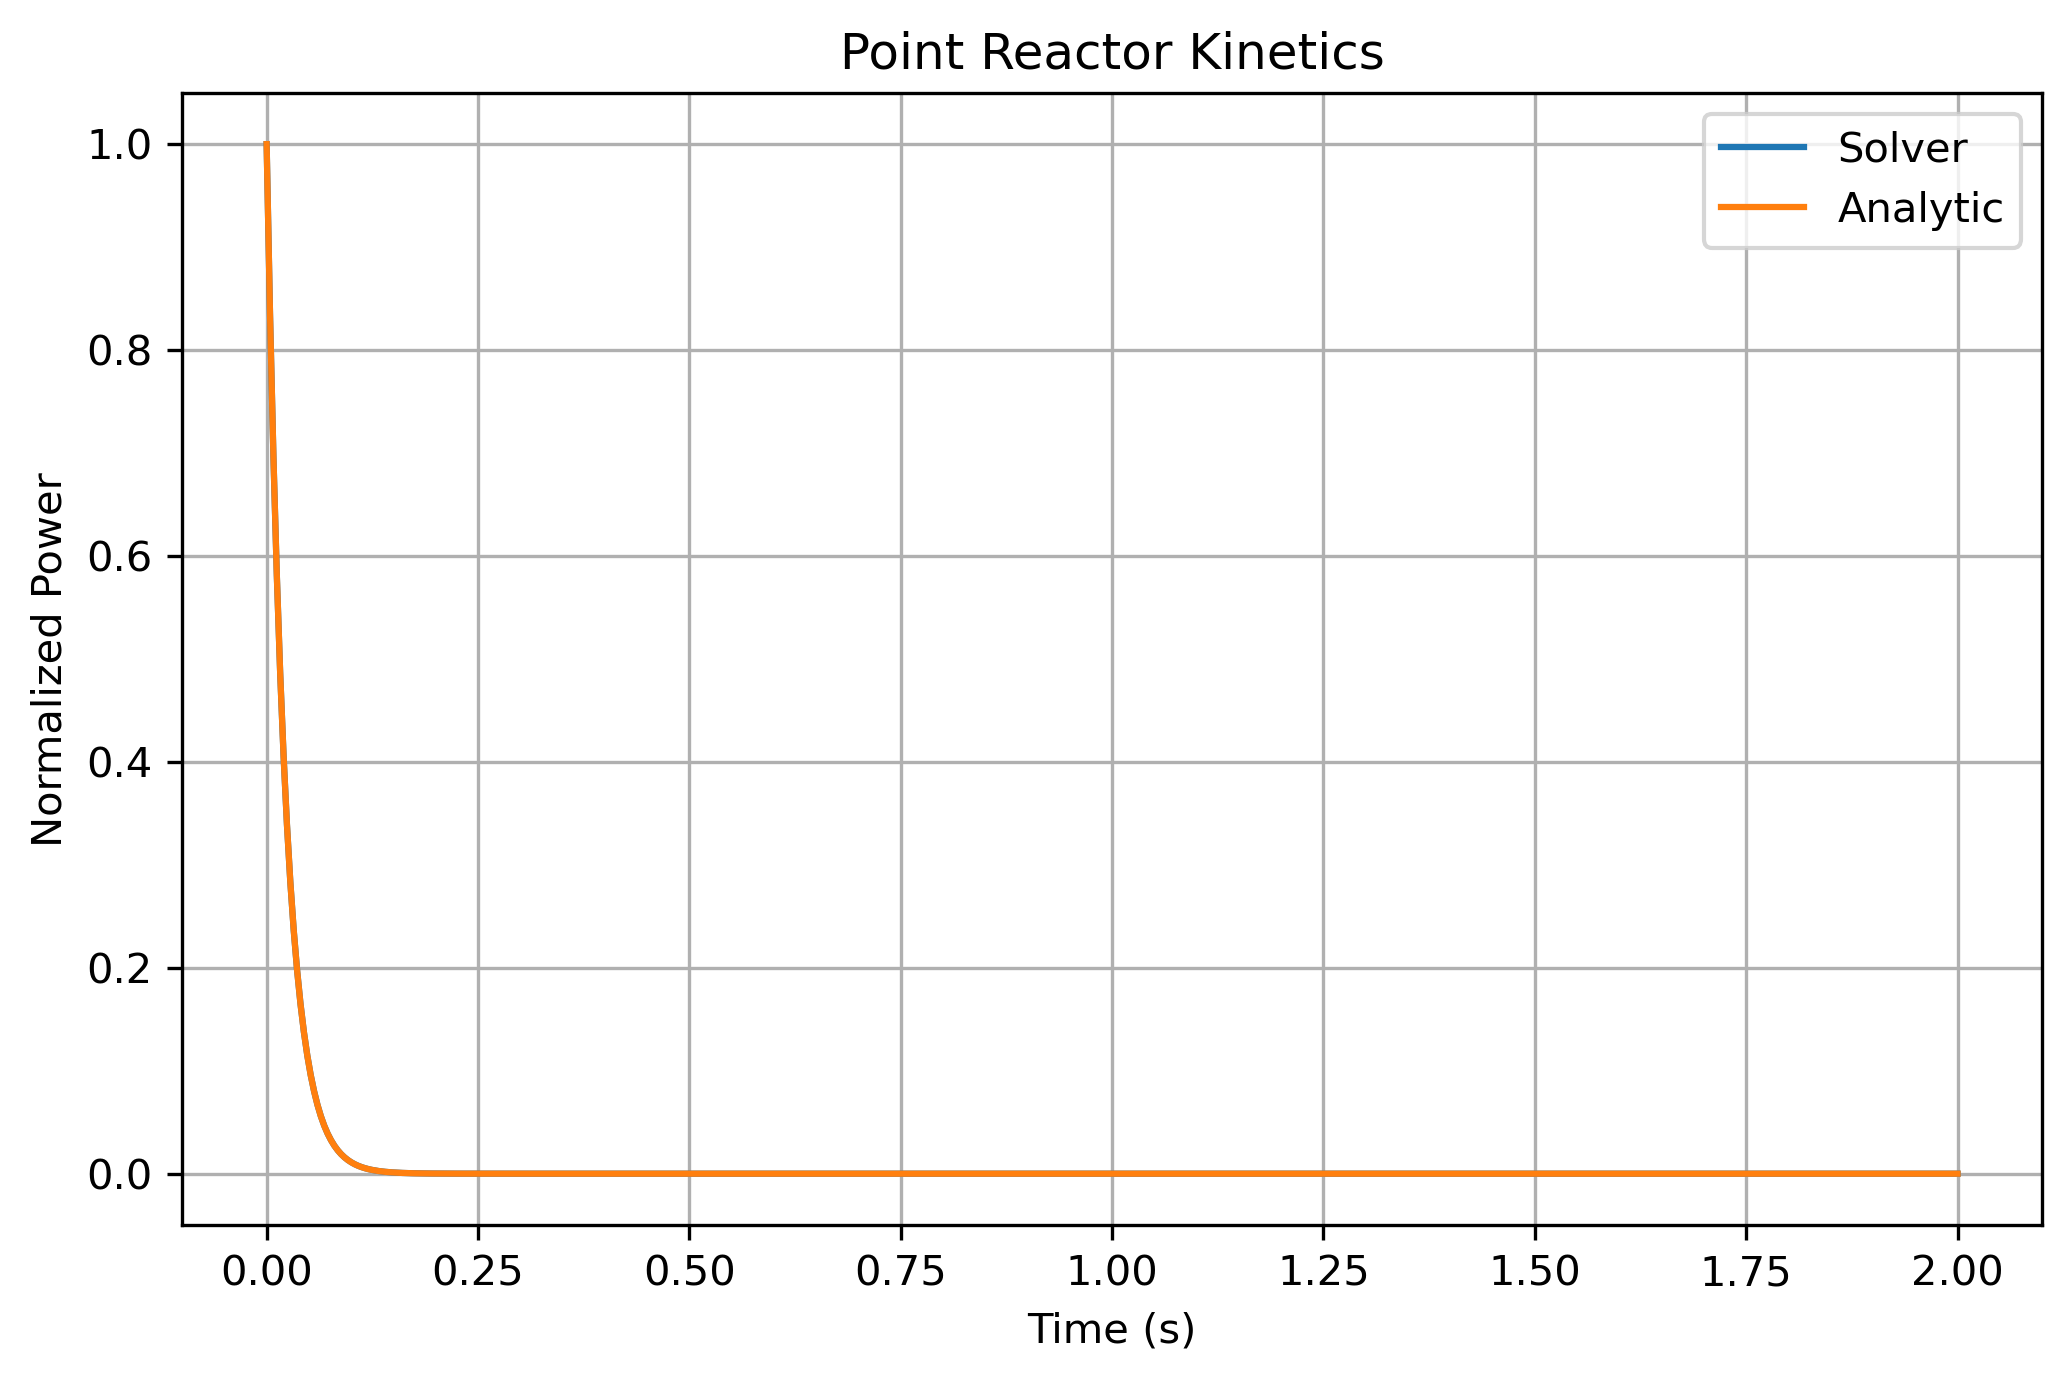
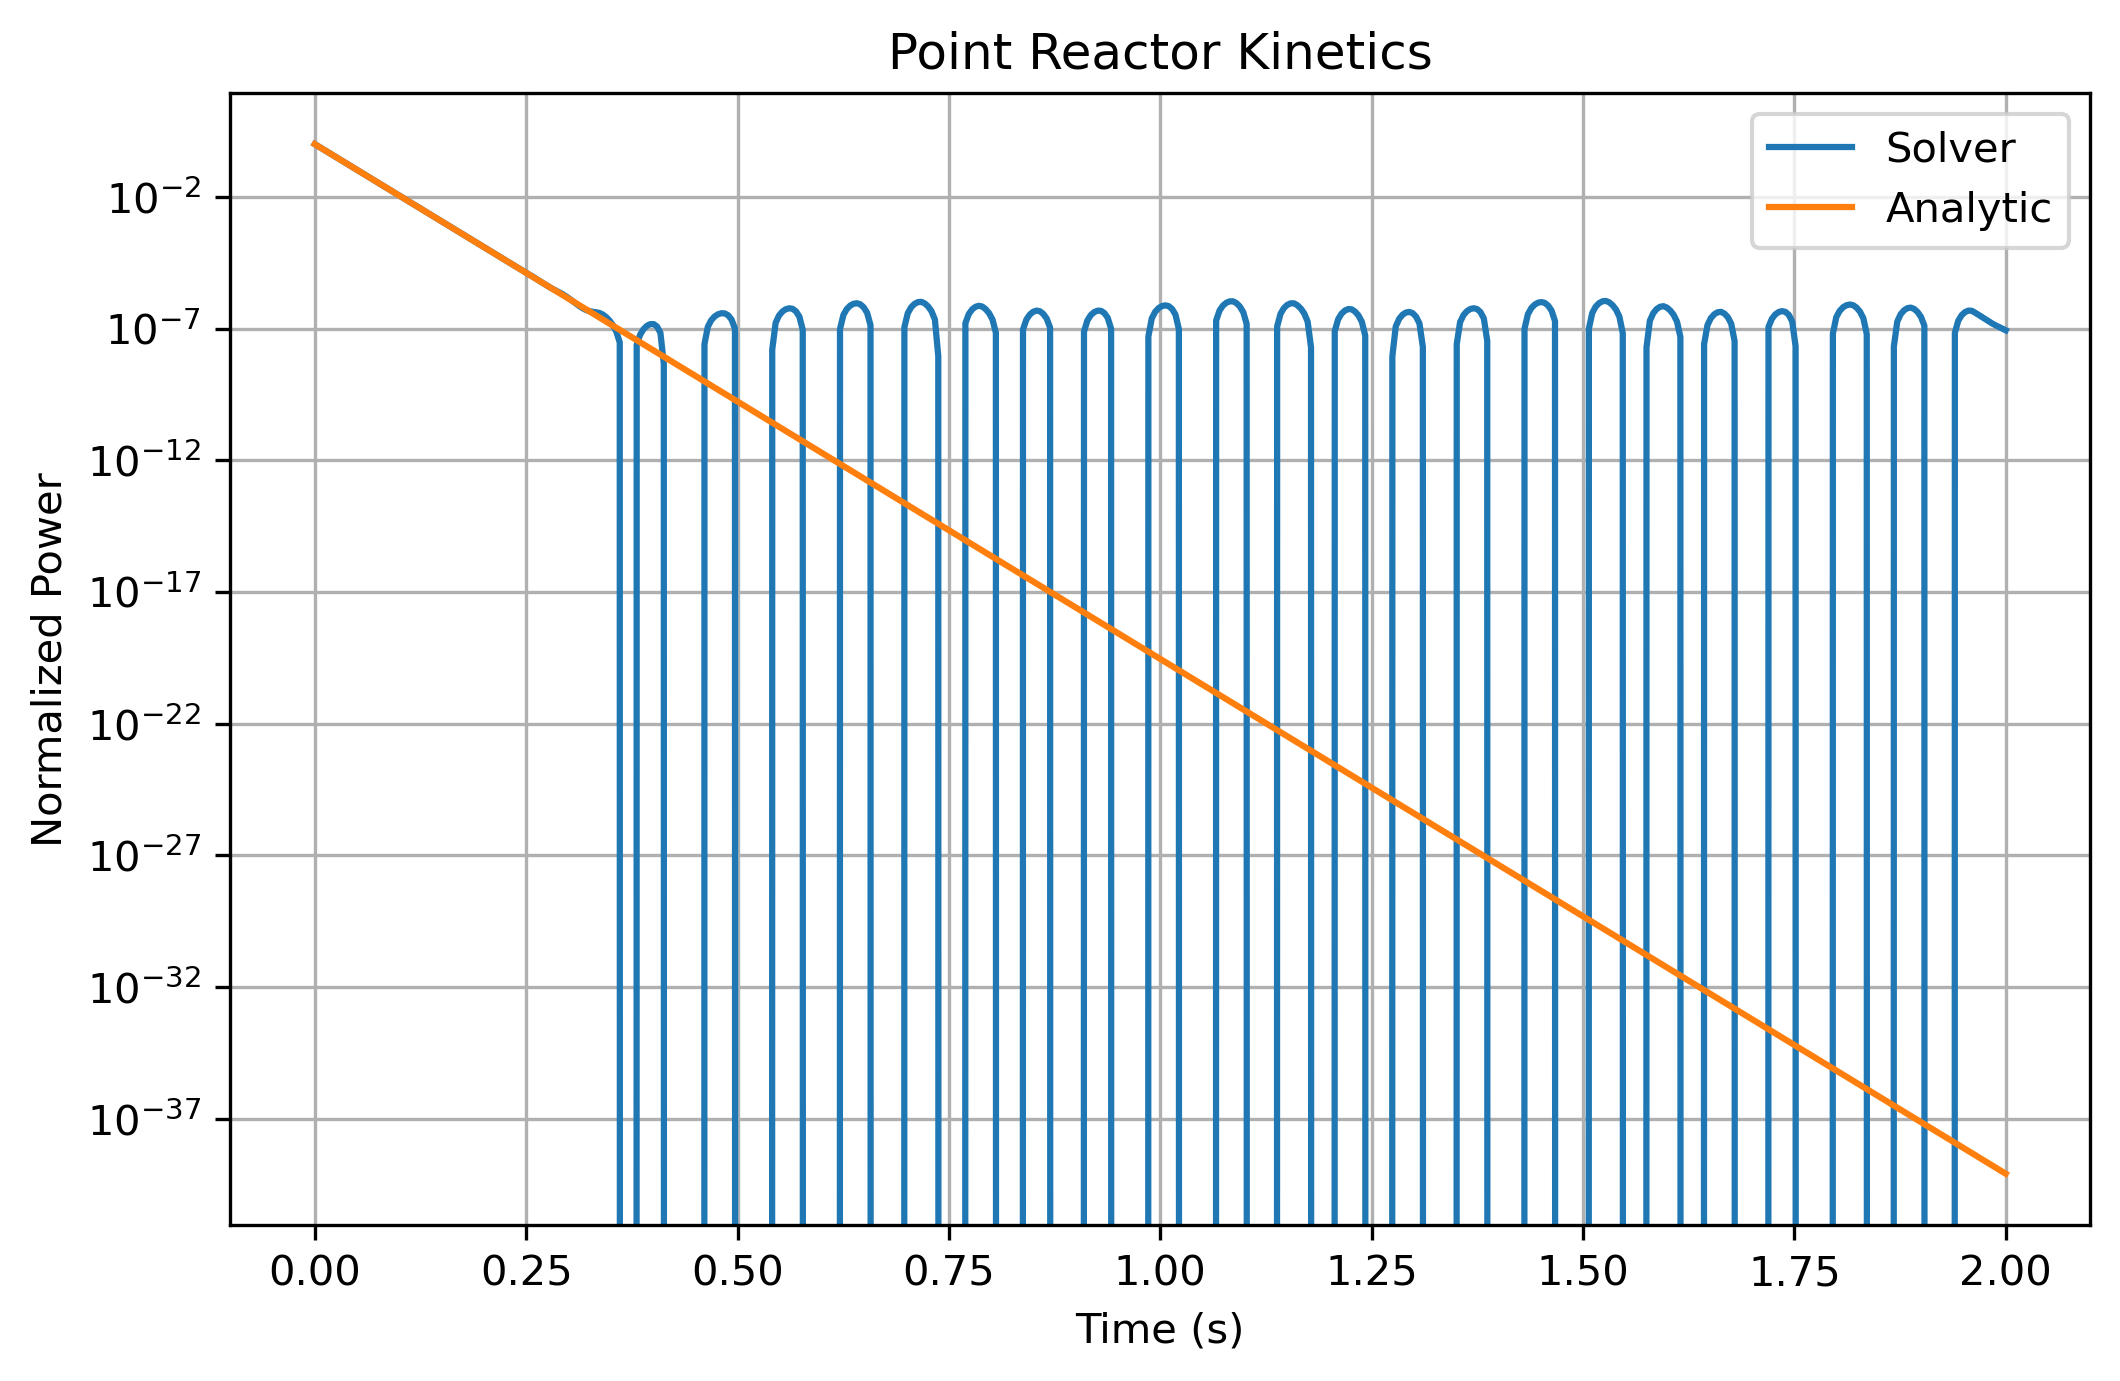
Add files via upload

diff --git a/README.md b/README.md
@@ -2,19 +2,19 @@
 
 ## Objective
 
-This project implements a simplified point reactor kinetics model to study the effect of reactivity changes on reactor power.
+This project implements a simplified reactor point kinetics model to investigate the effect of reactivity on reactor power evolution.
 
-The objective is to understand the dynamic response of a nuclear reactor under subcritical, critical, and supercritical conditions using numerical methods in Python.
+The model solves the governing differential equation numerically and validates the results against the analytical solution.
 
 ---
 
 ## Physical Background
 
-Point kinetics is one of the fundamental models used in reactor physics to describe the time-dependent behavior of neutron population and reactor power.
+Reactor kinetics describes the time-dependent behavior of neutron population and reactor power.
 
-In this simplified model, delayed neutrons are represented through the effective delayed neutron fraction, and the reactor power evolution is governed by a first-order differential equation.
+In this simplified model, reactor power is represented using a single point variable and the dynamics are governed by the balance between reactivity and delayed neutron effects.
 
-The model allows investigation of how different reactivity insertions affect reactor behavior.
+The simulation explores how different reactivity insertions influence reactor behavior under subcritical and supercritical conditions.
 
 ---
 
@@ -26,7 +26,7 @@ dP/dt = ((ρ - β)/Λ) P
 
 where:
 
-- P = reactor power
+- P = normalized reactor power
 - ρ = reactivity
 - β = effective delayed neutron fraction
 - Λ = neutron generation time
@@ -39,24 +39,29 @@ where:
 |------------|------------|
 | β | 0.0065 |
 | Λ | 1 × 10⁻⁴ s |
-| Initial Power | 1 (normalized) |
+| Initial Power | 1.0 |
 
-The simulation evaluates several reactivity conditions:
+The model evaluates several reactivity values:
 
-| Case | Reactivity (ρ) |
+| Case | Reactivity |
 |--------|--------|
 | Subcritical | -0.002 |
 | Critical-like | 0.000 |
-| Slightly Supercritical | 0.002 |
+| Near Critical | 0.002 |
 | Higher Reactivity | 0.004 |
+| Supercritical | 0.008 |
 
 ---
 
 ## Methodology
 
-The governing differential equation was solved numerically using SciPy's `solve_ivp()` function.
+The governing ordinary differential equation was solved numerically using SciPy's `solve_ivp()` solver.
 
-The reactor response was simulated for different reactivity values and compared against the analytical solution of the governing equation.
+To verify the implementation, the numerical solution was compared with the analytical solution:
+
+P(t) = P₀ exp[((ρ - β)/Λ)t]
+
+The comparison allows direct validation of the numerical model.
 
 ---
 
@@ -73,39 +78,42 @@ The reactor response was simulated for different reactivity values and compared 
 
 ### Power Evolution for Different Reactivities
 
-![Reactor Kinetics](reactor_kinetics_reactivities.png)
+![Reactor Kinetics](reactor_kinetics.png)
 
-The simulations show the expected reactor behavior:
+The simulations show the expected reactor response:
 
-- Negative reactivity causes power reduction.
-- Zero reactivity maintains constant power.
-- Positive reactivity produces power growth.
-- Larger reactivity insertions result in faster power increases.
+- Negative reactivity leads to power reduction.
+- Reactivity values approaching β produce slower decay.
+- Positive reactivity above β results in power growth.
+- The reactor response is highly sensitive to small reactivity changes.
 
 ---
 
 ## Model Validation
 
-![Reactor Kinetics](reactor_kinetics.png)
+### Numerical vs Analytical Solution
 
-The analytical solution of the governing equation is:
+![Validation](validation.png)
 
-P(t) = P₀ exp[((ρ - β)/Λ)t]
+The numerical solution was compared against the analytical solution of the governing equation.
 
-The numerical solution obtained with SciPy was compared with the analytical expression and showed excellent agreement.
+Excellent agreement was observed throughout the simulation interval, confirming the correctness of the numerical implementation.
 
-This comparison validates the numerical implementation.
+### Error Analysis
 
+The absolute error between numerical and analytical solutions remained extremely small throughout the simulation.
+
+The maximum observed error was on the order of machine precision, demonstrating the accuracy of the solver for this problem.
 
 ---
 
 ## Engineering Interpretation
 
-Reactivity is one of the most important parameters in reactor operation and safety.
+Reactivity is one of the most important parameters in reactor operation and safety analysis.
 
-Small changes in reactivity can significantly affect reactor power and therefore fuel temperature, thermal margins, and overall reactor behavior.
+This simplified model illustrates how even small reactivity variations can significantly alter reactor power evolution.
 
-Although simplified, this model captures the essential relationship between reactivity and power evolution and provides insight into the dynamic response of nuclear systems.
+Although the model does not include delayed neutron precursor groups or feedback mechanisms, it captures the fundamental relationship between reactivity and power behavior and serves as an introduction to reactor dynamics simulations.
 
 ---
 
@@ -113,11 +121,11 @@ Although simplified, this model captures the essential relationship between reac
 
 - Reactor physics fundamentals
 - Point kinetics modeling
-- Ordinary differential equations (ODEs)
-- Numerical integration with SciPy
+- Numerical solution of ODEs
+- Model verification and validation
 - Scientific computing with Python
 - Data visualization
-- Engineering problem solving
+- Engineering analysis
 - Git and GitHub workflow
 
 ---
@@ -126,25 +134,25 @@ Although simplified, this model captures the essential relationship between reac
 
 Potential extensions include:
 
-- Delayed neutron precursor groups
-- Full point kinetics equations
-- Reactivity insertion accidents
+- Six-group delayed neutron model
+- Reactivity insertion transients
 - Temperature feedback effects
-- Xenon poisoning effects
+- Xenon poisoning simulations
 - Coupling with thermal-hydraulic models
-- Comparison with reactor transient benchmarks
+- Point kinetics benchmark comparisons
 
 ---
+
 
 ## Relevance to Nuclear Engineering
 
 Point kinetics models are widely used in:
 
-- Reactor startup analysis
+- Reactor startup studies
 - Reactivity management
-- Safety studies
-- Transient analysis
-- Nuclear operator training
+- Nuclear safety analysis
+- Transient simulations
+- Reactor operator training
 - Reactor dynamics education
 
-Understanding reactor kinetics is fundamental for nuclear engineers working in reactor operation, safety assessment, and reactor design.
+Understanding reactor kinetics is fundamental for nuclear engineers involved in reactor analysis, safety assessment, and reactor operation.